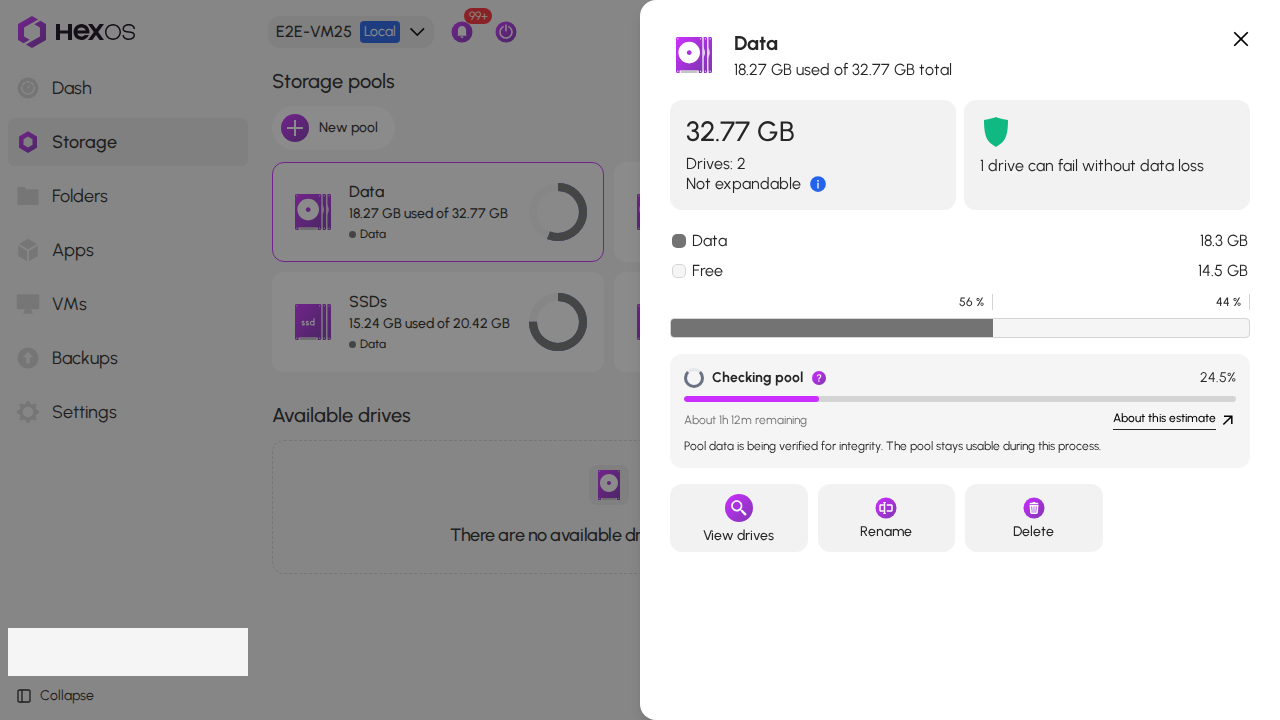
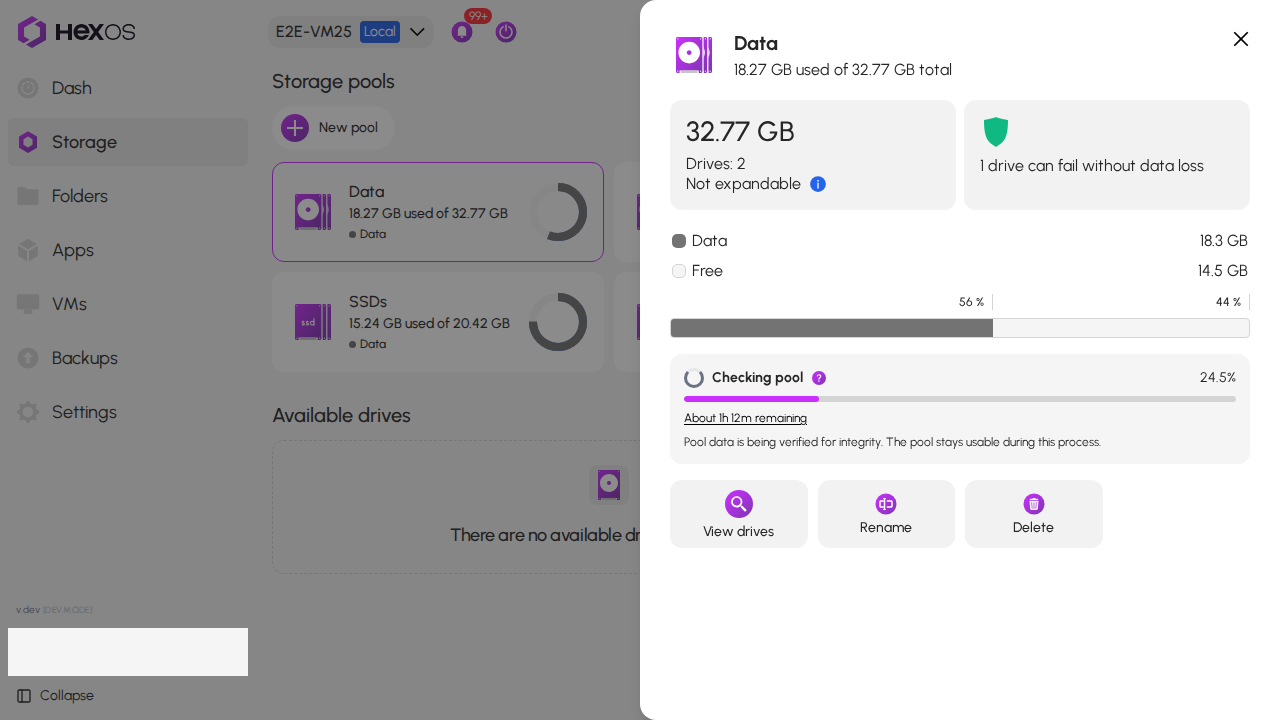
docs: Show the clickable pool check estimate

diff --git a/features/storage/pool-check-progress.md b/features/storage/pool-check-progress.md
@@ -36,7 +36,7 @@ A pool check, also called a scrub, reads stored data to check its integrity. You
 ![Pool check progress and time estimate.](/pool-check-progress/checking-pool.png){.medium .framed}
 </details>
 
-You do not need to start another check to see the estimate. The panel refreshes while the current check runs. **About this estimate** opens this guide in a new tab.
+You do not need to start another check to see the estimate. The panel refreshes while the current check runs. Click the time estimate to open this guide in a new tab.
 
 ## Why the estimate changes
 
